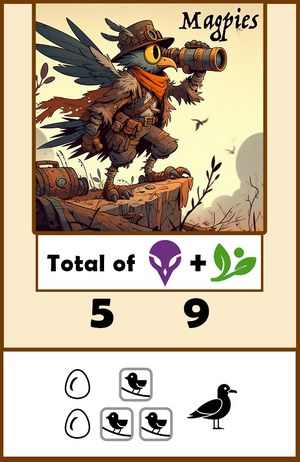
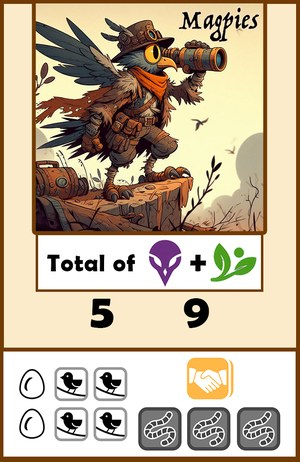
Objectifs recommandés : Magpies sans Mouette
Magpies : +1 Poussin, 1 case des Anciens, 3 vers (nouvelle image fournie).
Simulé : 50,0 % de victoires, objectifs entre 46,9 % et 53,2 %.

Claude-Session: https://claude.ai/code/session_01SHozX3c8M4YpEYtpfERQFN

Changed region(s): [[0.18, 0.7576, 0.96, 1.0], [0.06, 0.7879, 0.15, 0.9697]]

diff --git a/index.html b/index.html
@@ -320,15 +320,15 @@ small.onl{color:#1f8a8a;font-weight:600}
 <div id="zoom"></div>
 <div id="modal"></div>
 <div id="aide" style="position:fixed;inset:0;background:#0007;display:none;align-items:center;justify-content:center;z-index:70;cursor:pointer" onclick="this.style.display='none'"><img src="aide.jpg" alt="Aide de jeu" style="max-height:92vh;max-width:92vw;border-radius:12px"></div>
-<script src="data.js?v=1795271000"></script>
-<script src="content.js?v=1795271000"></script>
-<script src="engine.js?v=1795271000"></script>
-<script src="cards.js?v=1795271000"></script>
-<script src="i18n_it.js?v=1795271000"></script>
-<script src="i18n.js?v=1795271000"></script>
-<script src="stats.js?v=1795271000"></script>
-<script src="peerdb.js?v=1795271000"></script>
-<script src="ui.js?v=1795271000"></script>
+<script src="data.js?v=1795272000"></script>
+<script src="content.js?v=1795272000"></script>
+<script src="engine.js?v=1795272000"></script>
+<script src="cards.js?v=1795272000"></script>
+<script src="i18n_it.js?v=1795272000"></script>
+<script src="i18n.js?v=1795272000"></script>
+<script src="stats.js?v=1795272000"></script>
+<script src="peerdb.js?v=1795272000"></script>
+<script src="ui.js?v=1795272000"></script>
 <script>document.getElementById("statsbtn").onclick=document.getElementById("statsbtn2").onclick=()=>BirdsStatsUI.open();
 {const h=document.getElementById("homebtn"); let armed=null;
  h.onclick=()=>{ if(armed){location.reload(); return;} armed=setTimeout(()=>{armed=null; h.textContent=h.dataset.t; h.title=""; h.classList.remove("warn");},3000); h.dataset.t=h.textContent; const lg=window.I18N?I18N.lang:"fr"; h.textContent="Quitter ? ✓"; h.title=({en:"Click again to quit the game and go back home",it:"Clicca di nuovo per uscire dalla partita e tornare alla home"})[lg]||"Cliquez encore pour quitter la partie et revenir à l'accueil"; h.classList.add("warn");};}

diff --git a/engine.js b/engine.js
@@ -48,7 +48,7 @@ const PERSONAL=[
   {id:'A07',name:'Falcons',tags:['Legion','Circle'],res:{worm:1,seed:1,fruit:1},resNew:{chick:1,seed:1,worm:1,rune:1}},
   {id:'A08',name:'Woodpeckers',tags:['Court','Guild'],res:{elders:1,worm:3},resNew:{elders:2,worm:2,fruit:1}},
   {id:'A09',name:'Owls',tags:['Court','Circle'],res:{worm:2,fruit:1},resNew:{worm:2,seed:1,fruit:1}},
-  {id:'A10',name:'Magpies',tags:['Guild','Circle'],res:{seagull:1,worm:1,seed:1},resNew:{seagull:1}},
+  {id:'A10',name:'Magpies',tags:['Guild','Circle'],res:{seagull:1,worm:1,seed:1},resNew:{chick:1,elders:1,worm:3}},
 ];
 const PERSO_TH=[5,9];
 function resLabel(r){return Object.entries(r).filter(([k,v])=>v).map(([k,v])=>k==='chick'?(v>0?'+':'')+v+' Poussin'+(Math.abs(v)>1?'s':''):v+' '+({worm:'ver',seed:'graine',fruit:'fruit',seagull:'Mouette',elders:'Anciens',rune:'Rune'})[k]+(v>1&&k!=='elders'?'s':'')).join(' + ');}

diff --git a/NOTES_PROJET.md b/NOTES_PROJET.md
@@ -85,9 +85,9 @@ Recommandés — tous les joueurs commencent avec 2 Œufs et 3 Poussins ; l'obje
 | Falcons | Legion + Circle | +1 Poussin, 1 graine, 1 ver, 1 Rune |
 | Woodpeckers | Court + Guild | 2 Anciens, 2 vers, 1 fruit |
 | Owls | Court + Circle | 2 vers, 1 graine, 1 fruit |
-| Magpies | Guild + Circle | Mouette |
+| Magpies | Guild + Circle | +1 Poussin, 1 Ancien, 3 vers (sans Mouette) |
 
-Contraintes respectées : même total qu'avant (32 ressources, un Poussin compté comme 3 nourritures), autant de graines que de fruits (6 et 6). Totaux : 12 vers, 6 graines, 6 fruits, 3 Mouettes, 5 Anciens, 3 Runes, Poussins +2 / −3.
+Contraintes respectées : même total qu'avant (32 ressources, un Poussin compté comme 3 nourritures), autant de graines que de fruits (6 et 6). Totaux : 14 vers, 6 graines, 6 fruits, 2 Mouettes, 5 Anciens, 3 Runes, Poussins +3 / −3. Magpies a perdu sa Mouette (une Mouette vaut environ 4 nourritures, surtout grâce à ses améliorations : +12,1 pts, contre +5,4 pts si elle reste bloquée au niveau 1).
 Résultat (18 000 parties IA contre IA à 2 joueurs) : chaque objectif gagne entre 47,6 % et 51,8 % quand il est choisi (avant : 42 % à 62 %). L'écran de choix affiche aussi la ligne « Départ ».
 
 Valeur mesurée d'une ressource ajoutée au départ (gain de victoire, 2 joueurs) : Mouette +12,5 pts ; graine +4,2 ; +1 Poussin +4,1 ; case des Anciens +3,5 ; ver +2,2 ; fruit +2,1 ; Rune +1,7 ; −1 Poussin −4,9. Ces valeurs ne s'additionnent qu'approximativement : l'équilibre final a été réglé par simulations successives. Outils : `train/` (non versionné) — `extra.js` (valeur d'une ressource), `pv_run.sh` (équilibre des objectifs).
